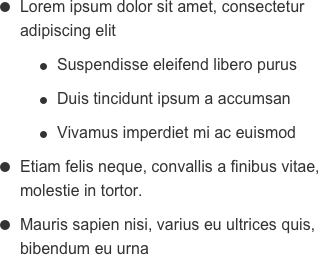
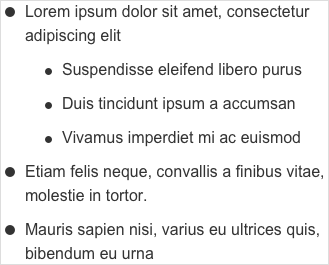
[COMP] Liste : corrections images + fin HTML

diff --git a/src/components/COMPONENTS_Lists/main.scss b/src/components/COMPONENTS_Lists/main.scss
@@ -38,8 +38,8 @@ $padding-bottom-li: 10px;
                 margin-top: $padding-bottom-li;
 
                 > li::before {
-                    background: transparent;
-                    border: 1px solid $color-bullet;
+                    width: $size-bullet-small;
+                    height: $size-bullet-small;
                 }
             }
         }
@@ -51,6 +51,7 @@ $padding-bottom-li: 10px;
     ol.su-list {
         display: table;
         counter-reset: liste;
+        padding-left: 0;
 
         > li {
             display: table-row;
@@ -66,12 +67,19 @@ $padding-bottom-li: 10px;
             }
             > ol:not(.su-not-list),
             > ol.su-list {
+                display: block;
+                list-style-type: lower-alpha;
                 padding-left: $size-withdrawal-ul * 2;
                 margin-top: $padding-bottom-li;
 
                 > li {
+                    display: list-item;
+                    padding-bottom: $padding-bottom-li;
+
                     &::before {
-                        content: counter(liste);
+                        content: '';
+                        padding: 0;
+                        display: none;
                     }
                 }
             }

diff --git a/src/components/COMPONENTS_Lists/_variables.scss b/src/components/COMPONENTS_Lists/_variables.scss
@@ -8,5 +8,6 @@
 // LISTES NON-ÉDITORIALES
 
 $size-bullet:                       10px                                 !default;
+$size-bullet-small:                  7px                                 !default;
 $margin-bullet:                     10px                                 !default;
 $color-bullet:                      $color-main-7                        !default;
